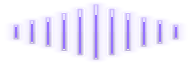
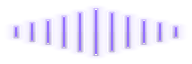
Waveform bars now grow with volume for obvious visual feedback
Previously bars were all the same height with only a subtle indigo
fill line changing — impossible to tell if the app was hearing you.
Now bar heights physically scale with volume level (tiny stubs at
silence → full dramatic waveform when speaking). Also increased
mic sensitivity so normal speech triggers levels 3-5 easily.

diff --git a/app/make_wave_icons.py b/app/make_wave_icons.py
@@ -53,19 +53,35 @@ def clamp(v, lo=0.0, hi=1.0):
 
 # ── Bar geometry (shared by mask and edge) ─────────────────────────────────
 
-# 11 bars with varying heights for waveform shape
-BAR_HEIGHTS = [0.30, 0.45, 0.55, 0.70, 0.85, 1.0, 0.85, 0.70, 0.55, 0.45, 0.30]
-NUM_BARS = len(BAR_HEIGHTS)
+# 11 bars with varying max heights for waveform shape
+BAR_HEIGHTS_MAX = [0.30, 0.45, 0.55, 0.70, 0.85, 1.0, 0.85, 0.70, 0.55, 0.45, 0.30]
+NUM_BARS = len(BAR_HEIGHTS_MAX)
 BAR_W_FRAC = 0.065   # thick glass bars
 GAP_FRAC = 0.018     # tight gaps
 TOTAL_W = NUM_BARS * BAR_W_FRAC + (NUM_BARS - 1) * GAP_FRAC
 START_X = (1.0 - TOTAL_W) / 2.0
 
+# Per-level height scales — bars GROW with volume for obvious visual feedback
+# Level 0 = silent (tiny stubs), Level 5 = loud (full dramatic waveform)
+LEVEL_SCALES = [0.18, 0.35, 0.55, 0.72, 0.88, 1.0]
+
+# Module-level state for current bar heights (set before each render pass)
+_active_bar_heights = list(BAR_HEIGHTS_MAX)
+
+
+def set_level_scale(level):
+    """Set bar heights for a given volume level (0-5)."""
+    global _active_bar_heights
+    scale = LEVEL_SCALES[min(level, len(LEVEL_SCALES) - 1)]
+    # Minimum bar height so they're always visible as stubs
+    min_h = 0.12
+    _active_bar_heights = [max(min_h, h * scale) for h in BAR_HEIGHTS_MAX]
+
 
 def bar_sdf(nx, ny, bar_idx):
     """Returns signed distance to a bar in normalized coords.
     Negative = inside, positive = outside."""
-    bh = BAR_HEIGHTS[bar_idx]
+    bh = _active_bar_heights[bar_idx]
     bx = START_X + bar_idx * (BAR_W_FRAC + GAP_FRAC)
     bw = BAR_W_FRAC
 
@@ -102,7 +118,7 @@ def closest_bar_info(nx, ny, w):
         if d < best_d:
             best_d = d
             best_i = i
-            bh = BAR_HEIGHTS[i]
+            bh = _active_bar_heights[i]
             best_top = 0.5 - bh * 0.45
             best_bot = 0.5 + bh * 0.45
     return best_d, best_i, best_top, best_bot
@@ -110,8 +126,9 @@ def closest_bar_info(nx, ny, w):
 
 # ── Wave mask (solid white silhouette for blur masking) ────────────────────
 
-def draw_wave_mask(w, h, fill_level):
+def draw_wave_mask(w, h, fill_level, level=0):
     """White filled bars on transparent background. Used as mask for blur layer."""
+    set_level_scale(level)
     pixels = []
     for py in range(h):
         for px in range(w):
@@ -121,8 +138,7 @@ def draw_wave_mask(w, h, fill_level):
             best_alpha = 0.0
             for i in range(NUM_BARS):
                 d = bar_sdf(nx, ny, i)
-                # Anti-aliased fill
-                aa = clamp(0.5 - d * w)  # scale to pixels for AA
+                aa = clamp(0.5 - d * w)
                 if aa > best_alpha:
                     best_alpha = aa
 
@@ -136,15 +152,23 @@ def draw_wave_mask(w, h, fill_level):
 
 # ── Wave edge highlights ──────────────────────────────────────────────────
 
-def _render_wave_edge(w, h, fill_level, mode="dark"):
+def _render_wave_edge(w, h, fill_level, mode="dark", level=0):
     """Render glass wave bars optimized for a specific background.
 
     mode="dark"  → bars sit on dark backgrounds (bright edges, vivid glow)
     mode="light" → bars sit on light backgrounds (darker outlines, visible body)
 
-    iOS clock-digit glass style: the color IS the glass. Indigo glow consumes
-    the entire bar body with luminous edges and a soft outer halo.
+    Bar heights now SCALE with volume level — the shape itself is the
+    volume indicator. fill_level controls the indigo fill intensity:
+    level 0 = subtle glass stubs, level 5 = tall vivid glowing bars.
     """
+    set_level_scale(level)
+
+    # At higher levels, bars are always filled with indigo (height = volume)
+    # At level 0, bars are unfilled glass stubs
+    if level >= 1:
+        fill_level = 1.0  # full indigo fill — the height IS the feedback
+
     pixels = []
 
     if mode == "dark":
@@ -199,7 +223,7 @@ def _render_wave_edge(w, h, fill_level, mode="dark"):
 
             for i in range(NUM_BARS):
                 d = bar_sdf(nx, ny, i)
-                bh = BAR_HEIGHTS[i]
+                bh = _active_bar_heights[i]
                 bar_top = 0.5 - bh * 0.45
                 bar_bot = 0.5 + bh * 0.45
 
@@ -281,14 +305,14 @@ def _render_wave_edge(w, h, fill_level, mode="dark"):
     return pixels
 
 
-def draw_wave_edge(w, h, fill_level):
+def draw_wave_edge(w, h, fill_level, level=0):
     """Light-background variant (default / backward compat)."""
-    return _render_wave_edge(w, h, fill_level, mode="light")
+    return _render_wave_edge(w, h, fill_level, mode="light", level=level)
 
 
-def draw_wave_edge_dark(w, h, fill_level):
+def draw_wave_edge_dark(w, h, fill_level, level=0):
     """Dark-background variant — bright glowing indigo glass."""
-    return _render_wave_edge(w, h, fill_level, mode="dark")
+    return _render_wave_edge(w, h, fill_level, mode="dark", level=level)
 
 
 # ── Processing dots ────────────────────────────────────────────────────────
@@ -386,14 +410,14 @@ for lvl in range(6):
     fill = lvl / 5.0
     for scale, suffix in [(1, ""), (2, "@2x")]:
         sw, sh = WAVE_W * scale, WAVE_H * scale
-        # Mask (shared by both modes)
-        px = draw_wave_mask(sw, sh, fill)
+        # Mask (bar shapes scale with level)
+        px = draw_wave_mask(sw, sh, fill, level=lvl)
         write_png(ASSETS / f"wave_mask_{lvl}{suffix}.png", px, sw, sh)
-        # Light-bg edge highlights (default)
-        px = draw_wave_edge(sw, sh, fill)
+        # Light-bg edge highlights
+        px = draw_wave_edge(sw, sh, fill, level=lvl)
         write_png(ASSETS / f"wave_edge_{lvl}{suffix}.png", px, sw, sh)
         # Dark-bg edge highlights
-        px = draw_wave_edge_dark(sw, sh, fill)
+        px = draw_wave_edge_dark(sw, sh, fill, level=lvl)
         write_png(ASSETS / f"wave_edge_dark_{lvl}{suffix}.png", px, sw, sh)
 
 PROC_W, PROC_H = 32, 14

diff --git a/app/myscriber.py b/app/myscriber.py
@@ -747,9 +747,11 @@ class MyScriber(rumps.App):
         self._last_waveform_update = now
         try:
             from PyObjCTools import AppHelper
-            if rms > 0.002:
+            if rms > 0.001:
                 db = 20.0 * math.log10(rms)
-                level = max(1, min(int((db + 54) / 8), 5))
+                # More sensitive mapping: -50dB→1, -42dB→2, -34dB→3, -26dB→4, -18dB→5
+                # Normal speech is around -30 to -15 dB, so levels 3-5 fire easily
+                level = max(1, min(int((db + 50) / 8), 5))
             else:
                 level = 0
             if level == self._last_wave_level:
